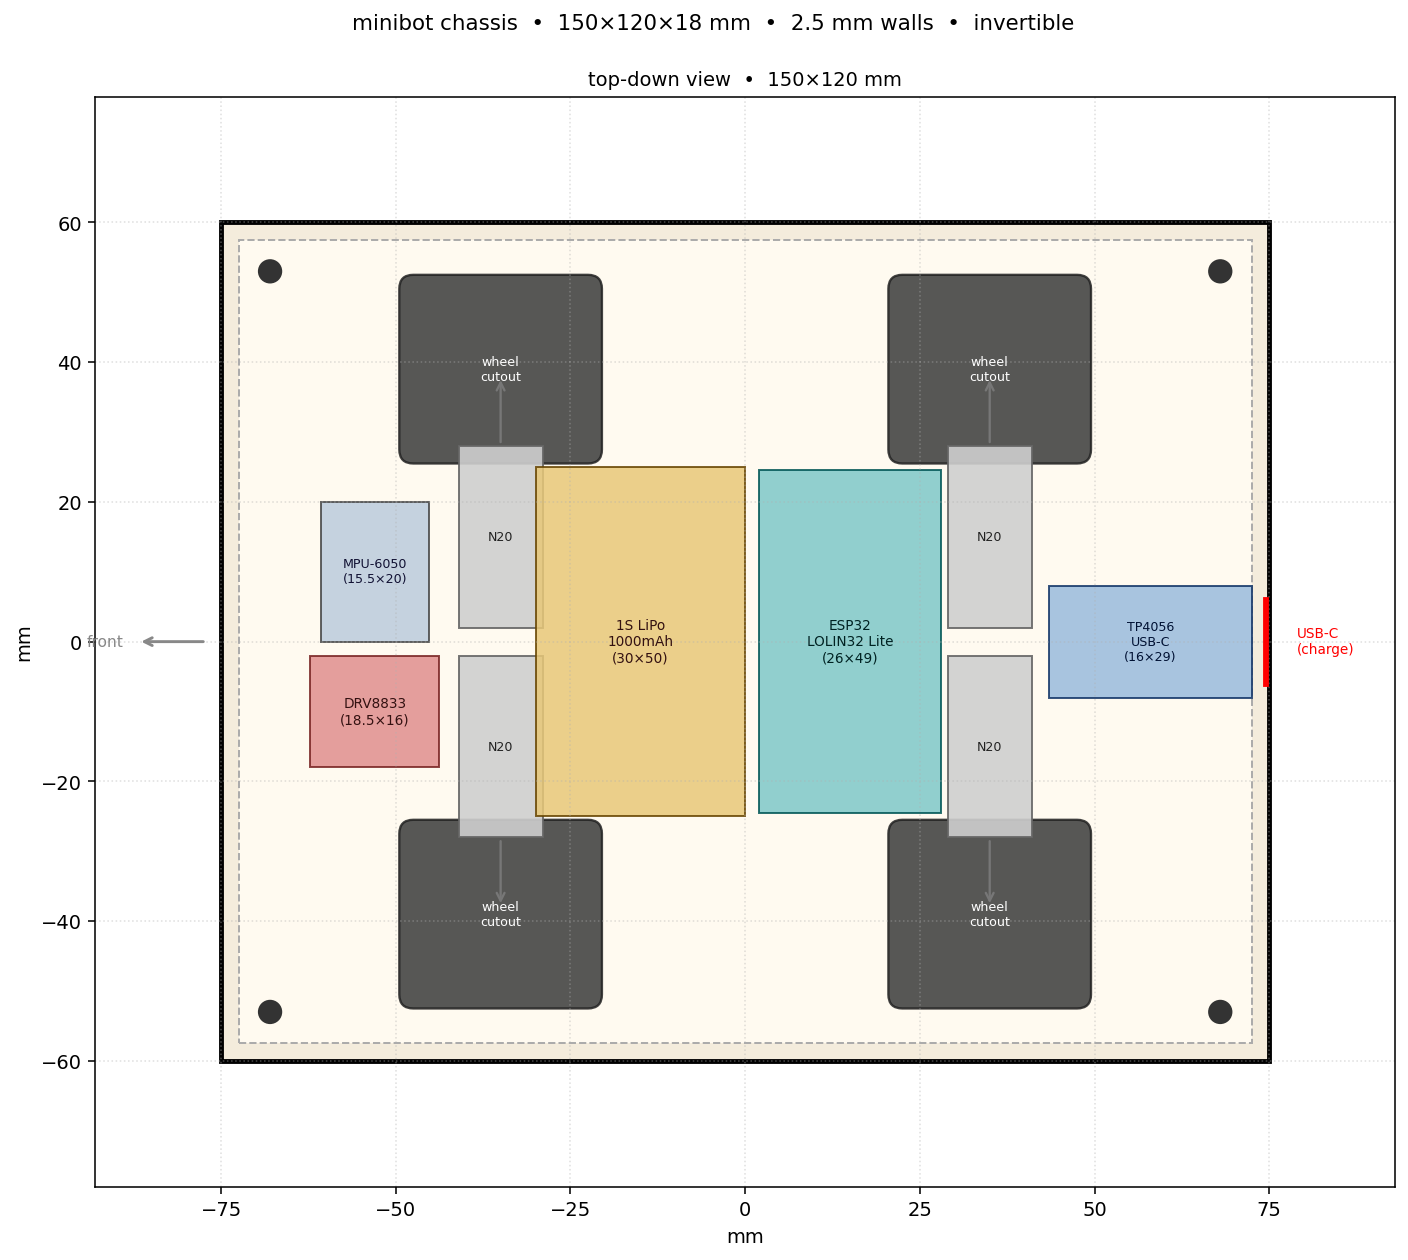
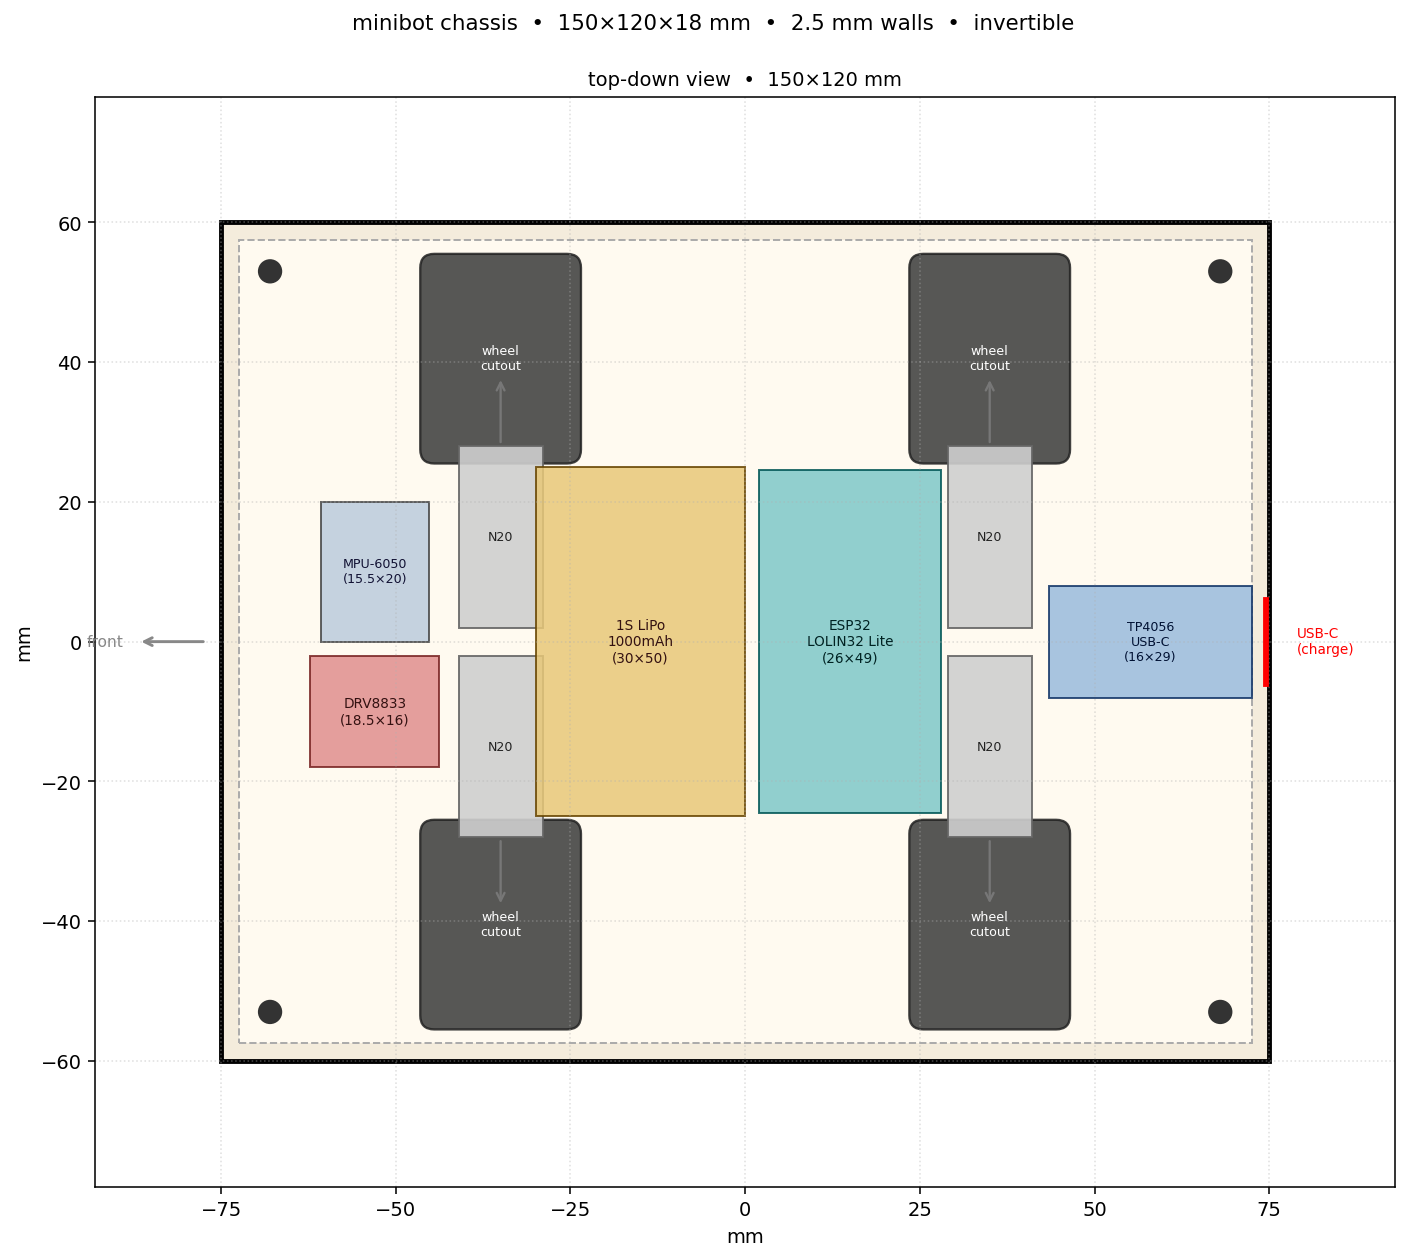
feat(cad): measured wheels (23x25mm), recompute speed, update wheel cutouts

diff --git a/docs/cad/layout.py b/docs/cad/layout.py
@@ -26,8 +26,8 @@ motor_length = 26      # body only, excluding shaft
 motor_axle_pitch = 70
 motor_track = 30
 
-wheel_diameter = 28      # 26 mm hub + ~1 mm rubber band on each side
-wheel_width = 22
+wheel_diameter = 23      # measured outer diameter incl. rubber tire
+wheel_width = 25
 wheel_clearance = 2.0
 
 motor_center_y = motor_track / 2
@@ -86,7 +86,7 @@ def draw_top(ax) -> None:
         linewidth=1, edgecolor="#aaa", facecolor="#fffaf0", linestyle="--",
     ))
 
-    cutout_x = 28
+    cutout_x = 22
     cutout_y = wheel_width + 4
     for x, y in wheel_positions:
         ax.add_patch(patches.FancyBboxPatch(

diff --git a/research.md b/research.md
@@ -36,8 +36,8 @@ Running log of what we learned while building minibot. Updated as we go.
 
 - **Type**: N20 micro metal gear motors, **6V 400 RPM, 20mm shaft** (4×)
 - **Voltage choice**: 6V over 3V because the 3.7V LiPo (4.2V full) overvolts a 3V motor by 23–40%, shortening lifespan and risking thermal failure under stall. Undervolting a 6V motor is harmless — it just runs slower, with more headroom on heat and stall current.
-- **Shaft length**: 20mm to match deep-hub wheels (JS2622, 26×22mm). Standard ~9mm shafts would slip in deep hubs.
-- **RPM choice**: 400 RPM was the practical pick from what's actually in stock — ideal would have been 600 RPM for a snappier "speedy" feel, but 400 RPM is still a usable balance of speed and torque. At 3.7V loaded with the 26mm JS2622 wheels: ~1.0 km/h cruise, ~1.1 km/h peak. Future upgrade path: 2S LiPo (7.4V) would push it to ~1.9 km/h.
+- **Shaft length**: 20mm to match deep-hub wheels (JS2622, measured ⌀23 × 25 mm). Standard ~9mm shafts would slip in deep hubs.
+- **RPM choice**: 400 RPM was the practical pick from what's actually in stock — ideal would have been 600 RPM for a snappier "speedy" feel, but 400 RPM is still a usable balance of speed and torque. At 3.7V loaded with the 23mm JS2622 wheels: ~0.9 km/h cruise, ~1.0 km/h peak. Future upgrade path: 2S LiPo (7.4V) would push it to ~1.7 km/h.
 - **Visible gear stages identical across all 4** → same gear ratio → same output RPM at same voltage.
 - **Current draw**: ~200 mA cruise, 500–700 mA stall per motor. Paired (2× per side) → 1–1.4 A stall per side — within DRV8833's 1.5 A continuous / 2 A peak window.
 - **Encoders**: none — open-loop control only (we command, we don't sense).

diff --git a/docs/parts.md b/docs/parts.md
@@ -9,7 +9,7 @@ Everything needed to build a minibot from scratch. Prices are rough Euro estimat
 | 1 | **WeMos LOLIN32 Lite** (ESP32 + CH340 + JST + TP4054) | The brain. Search "LOLIN32 Lite" on AliExpress. | €5–8 | €5–8 |
 | 1 | **DRV8833 dual motor driver breakout** | Pololu-style carrier, ~18.5 × 16 mm. Drives 2 motors at 1.5 A continuous / 2 A peak per channel. Recommend buying spares. | €1.50 | €1.50 |
 | 4 | **N20 6V 400 RPM micro metal gearmotor**, 20 mm shaft, D-cut | Get them all from one listing so they're matched. Search "N20 6V 400rpm 20mm shaft". | €2.50 | €10 |
-| 4 | **JS2622 26×22 mm wheel** (rubber tire), D-shaft hub | 26 mm hub OD + rubber band, 22 mm wide. Matches the 20 mm shaft motor. | €1.80 | €7.20 |
+| 4 | **JS2622 wheel** (rubber tire), D-shaft hub | Measured ⌀23 mm × 25 mm wide. Rides on the motor's long shaft. | €1.80 | €7.20 |
 | 1 | **MPU-6050 IMU module** | 6-axis accel + gyro on I²C. Used to detect upside-down and auto-flip drive direction. Spare buying recommended — 5 for ~€1.50 each. | €1.50 | €1.50 |
 | 1 | **TP4056 USB-C charge + DW01A protection board** (the "18650 Type-C" board) | Charges the battery via USB-C and protects against overcharge / overdischarge / overcurrent / short-circuit. OUT+ / OUT- feed the load (replaces the LOLIN32's onboard charger path). | €1–2 | €1.50 |
 | 1 | **1S LiPo 3.7 V 1000 mAh** pouch (603048, ~50 × 30 × 6 mm measured) | 6 mm thick fits the 12 mm cavity easily. Wires solder directly to TP4056 B+ / B-. | €6 | €6 |

diff --git a/README.md b/README.md
@@ -96,7 +96,7 @@ Quick summary — see [`docs/parts.md`](docs/parts.md) for the full list with ve
 | ESP32 LOLIN32 Lite | 1 | €5–8 |
 | DRV8833 breakout | 1 | €1.50 |
 | N20 6 V 400 RPM motor, 20 mm shaft | 4 | €10 |
-| JS2622 26×22 mm wheel | 4 | €7.20 |
+| JS2622 wheel (⌀23 × 25 mm) | 4 | €7.20 |
 | MPU-6050 IMU module | 1 | €1.50 |
 | TP4056 USB-C charge + DW01A protection board | 1 | €1–2 |
 | 1S LiPo 1000 mAh (603048) | 1 | €6 |
